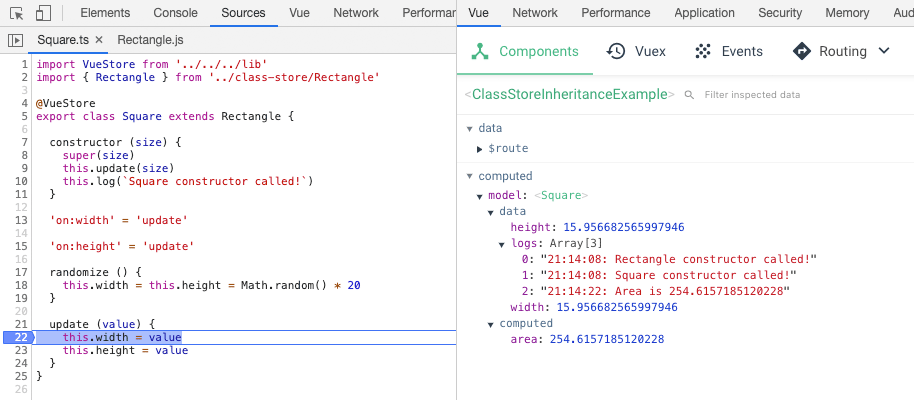
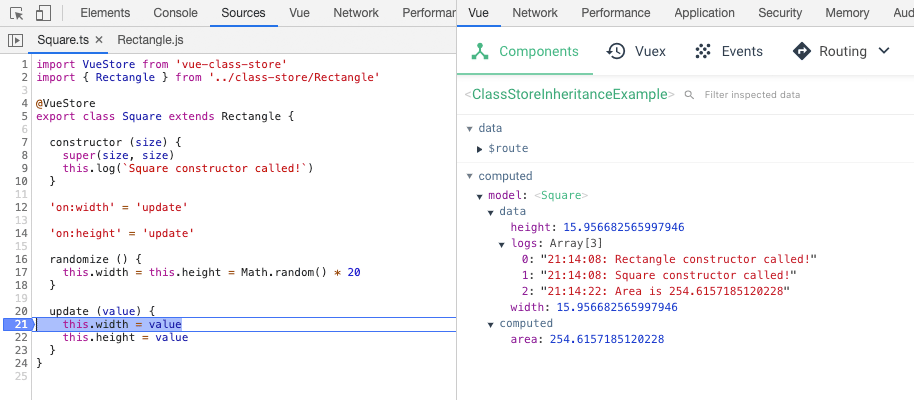
Update demo and screenshot

diff --git a/demo/src/examples/class-store-inheritance/Square.ts b/demo/src/examples/class-store-inheritance/Square.ts
@@ -4,8 +4,7 @@ import { Rectangle } from '../class-store/Rectangle'
 export class Square extends Rectangle {
 
   constructor (size) {
-    super(size)
-    this.update(size)
+    super(size, size)
     this.log(`Square constructor called!`)
   }
 
